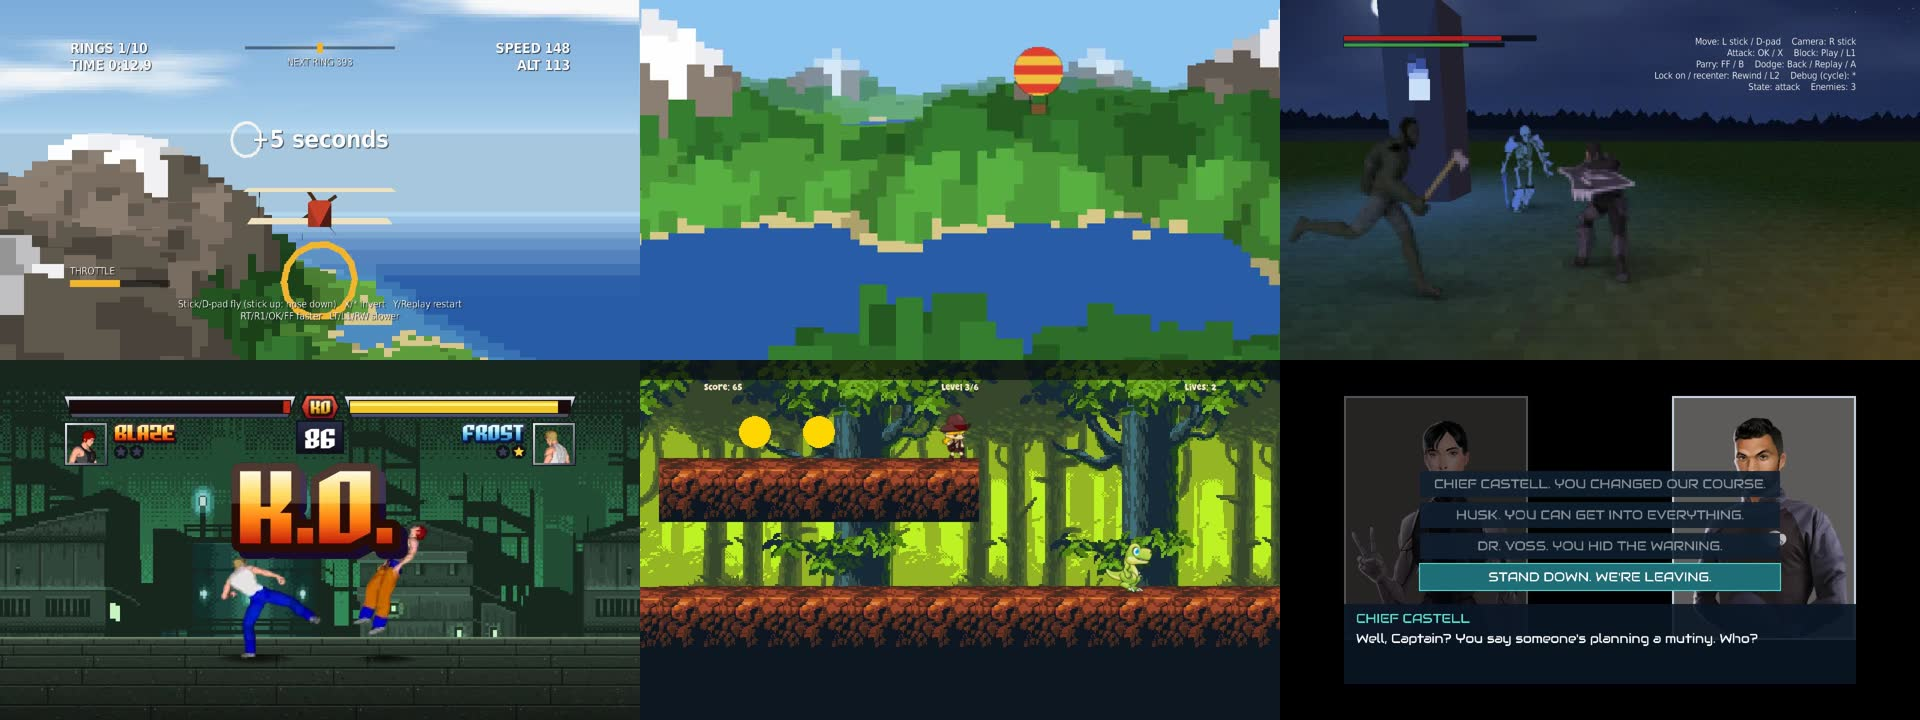
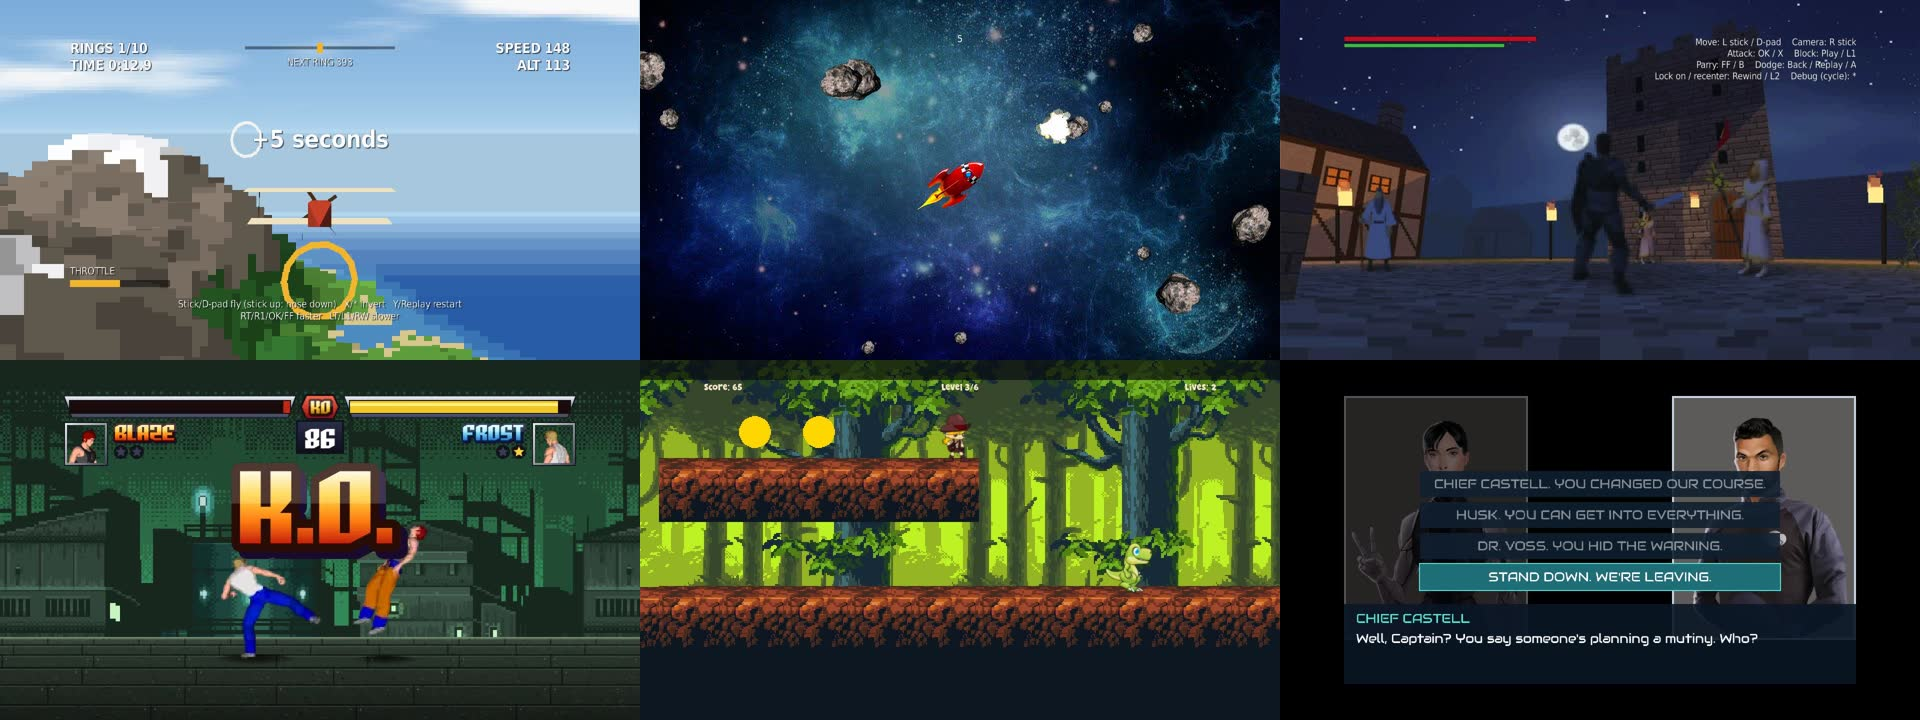
README hero: asteroids and a town shot of thirdPerson (#663)

Changed region(s): [[0.3125, 0.0, 1.0, 0.5194]]

diff --git a/README.md b/README.md
@@ -7,7 +7,7 @@
 
 Real 2D and 3D games on a Roku: chase cameras, voxel terrain, textured 3D models, tile maps, fighting games and visual novels, all written in object-oriented [BrighterScript](https://github.com/rokucommunity/brighterscript). Use the whole engine, or just its renderer inside your own app.
 
-<img src="assets/screenshots/hero.jpg" alt="Six screenshots from the examples running on a Roku: a biplane flying through a gold ring over a voxel island, a red rocket ship among gray asteroids in a blue nebula, a knight fighting a skeleton and an orc at night, a pixel-art street fighter landing a K.O. kick, a jungle platformer, and a sci-fi visual novel with character portraits and a choice menu">
+<img src="assets/screenshots/hero.jpg" alt="Six screenshots from the examples running on a Roku: a biplane flying through a gold ring over a voxel island, a red rocket ship among gray asteroids in a blue nebula, a knight in a moonlit town square below a stone keep, with torches and townsfolk, a pixel-art street fighter landing a K.O. kick, a jungle platformer, and a sci-fi visual novel with character portraits and a choice menu">
 
 <sub>Top: [flightSim](https://github.com/markwpearce/brighterscript-game-engine/tree/main/examples/flightSim), [asteroids](https://github.com/markwpearce/brighterscript-game-engine/tree/main/examples/asteroids), [thirdPerson](https://github.com/markwpearce/brighterscript-game-engine/tree/main/examples/thirdPerson). Bottom: [fighter](https://github.com/markwpearce/brighterscript-game-engine/tree/main/examples/fighter), [platformer](https://github.com/markwpearce/brighterscript-game-engine/tree/main/examples/platformer), [visualnovel](https://github.com/markwpearce/brighterscript-game-engine/tree/main/examples/visualnovel). Every one of these is a capture from a real Roku.</sub>
 
@@ -122,7 +122,7 @@ The `examples/` directory has full Roku channels you can build and run.
 | Example | What it shows | |
 | --- | --- | --- |
 | [`flightSim`](https://github.com/markwpearce/brighterscript-game-engine/tree/main/examples/flightSim) | Fly a biplane round a voxel island through a course of rings, with a chase camera | <img src="assets/screenshots/flightSim.jpg" width="160" alt="Biplane over a voxel island"> |
-| [`thirdPerson`](https://github.com/markwpearce/brighterscript-game-engine/tree/main/examples/thirdPerson) | A souls-like action game in 3D (work in progress, issue #385): a walled town, a graveyard and a three-level crypt with bosses, lock-on combat, stamina, fog and torchlight | <img src="assets/screenshots/thirdPerson.jpg" width="160" alt="Knight fighting a skeleton and an orc"> |
+| [`thirdPerson`](https://github.com/markwpearce/brighterscript-game-engine/tree/main/examples/thirdPerson) | A souls-like action game in 3D (work in progress, issue #385): a walled town, a graveyard and a three-level crypt with bosses, lock-on combat, stamina, fog and torchlight | <img src="assets/screenshots/thirdPerson.jpg" width="160" alt="Knight in a moonlit town square below the keep"> |
 | [`fighter`](https://github.com/markwpearce/brighterscript-game-engine/tree/main/examples/fighter) | A two-player fighting game (work in progress, issue #295): one controller per player, 60 Hz frame data, hitboxes and hurtboxes, blocking, hit-pause, a parallax stage and a best-of-3 HUD | <img src="assets/screenshots/fighter.jpg" width="160" alt="Pixel-art fighters, one landing a K.O. kick"> |
 | [`platformer`](https://github.com/markwpearce/brighterscript-game-engine/tree/main/examples/platformer) | A side-scrolling, multi-level platformer: gravity, jumping and collision *resolution* built on the engine's detection-only colliders, a level from a [Tiled](https://www.mapeditor.org/) map, sound, particles and a full `BGE.UI` menu and HUD | <img src="assets/screenshots/platformer.jpg" width="160" alt="Jungle platformer"> |
 | [`rpg`](https://github.com/markwpearce/brighterscript-game-engine/tree/main/examples/rpg) | A top-down RPG: an auto-tiled town and castle built from character-grid maps, movement that slides along walls, props you walk in front of and behind, and fade transitions between areas | <img src="assets/screenshots/rpg.jpg" width="160" alt="Top-down town square with a fountain"> |
